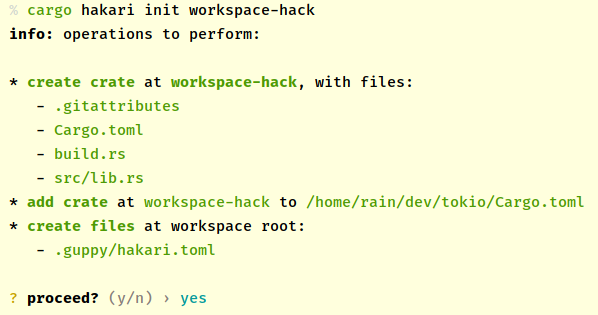
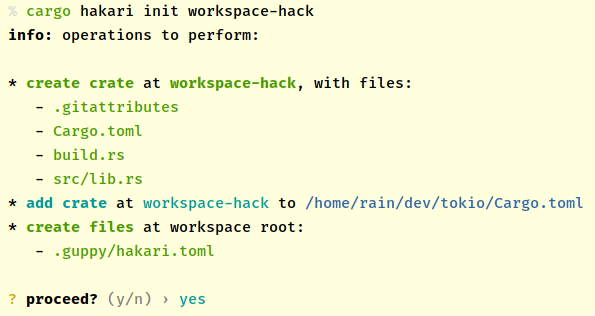
[cargo-hakari] update screenshots + small fix

diff --git a/tools/hakari/src/cli_ops/workspace_ops.rs b/tools/hakari/src/cli_ops/workspace_ops.rs
@@ -518,10 +518,10 @@ impl<'g, 'a, 'ops> fmt::Display for WorkspaceOpsDisplay<'g, 'a, 'ops> {
                     writeln!(
                         f,
                         "* {} at {} to {}",
-                        self.styles.create_bold_style.paint("add crate"),
-                        self.styles.create_style.paint(crate_path.as_str()),
+                        self.styles.add_bold_style.paint("add crate"),
+                        self.styles.add_style.paint(crate_path.as_str()),
                         self.styles
-                            .create_style
+                            .add_to_style
                             .paint(workspace_root_manifest.as_str()),
                     )?;
                     if !root_files.is_empty() {
@@ -602,7 +602,7 @@ impl Styles {
         self.create_bold_style = self.create_style.bold();
         self.add_bold_style = self.add_style.bold();
         self.add_to_bold_style = self.add_to_style.bold();
-        self.remove_style = self.remove_style.bold();
+        self.remove_bold_style = self.remove_style.bold();
         self.remove_from_bold_style = self.remove_from_style.bold();
     }
 }

diff --git a/tools/cargo-hakari/src/lib.rs b/tools/cargo-hakari/src/lib.rs
@@ -42,7 +42,7 @@
 //! ```
 //!
 //! <p align="center">
-//! <img src="https://user-images.githubusercontent.com/180618/135725771-9395db82-73fa-4c0c-8908-8bfe5b1b0465.png">
+//! <img src="https://user-images.githubusercontent.com/180618/135726175-dc00dd0c-68a1-455f-a13d-0dd24f545ca6.png">
 //! </p>
 //!
 //! Generate or update the contents of a workspace-hack crate.
@@ -84,7 +84,7 @@
 //! ```
 //!
 //! <p align="center">
-//! <img src="https://user-images.githubusercontent.com/180618/135725775-5c874139-8188-40b3-8fd1-6bf65f19985f.png">
+//! <img src="https://user-images.githubusercontent.com/180618/135726181-9fe86782-6471-4a1d-a511-a6c55dffbbd7.png">
 //! </p>
 //!
 //! # Configuration

diff --git a/tools/cargo-hakari/README.md b/tools/cargo-hakari/README.md
@@ -43,7 +43,7 @@ cargo hakari init my-workspace-hack
 ```
 
 <p align="center">
-<img src="https://user-images.githubusercontent.com/180618/135725771-9395db82-73fa-4c0c-8908-8bfe5b1b0465.png">
+<img src="https://user-images.githubusercontent.com/180618/135726175-dc00dd0c-68a1-455f-a13d-0dd24f545ca6.png">
 </p>
 
 Generate or update the contents of a workspace-hack crate.
@@ -85,7 +85,7 @@ cargo hakari remove-deps
 ```
 
 <p align="center">
-<img src="https://user-images.githubusercontent.com/180618/135725775-5c874139-8188-40b3-8fd1-6bf65f19985f.png">
+<img src="https://user-images.githubusercontent.com/180618/135726181-9fe86782-6471-4a1d-a511-a6c55dffbbd7.png">
 </p>
 
 ## Configuration
